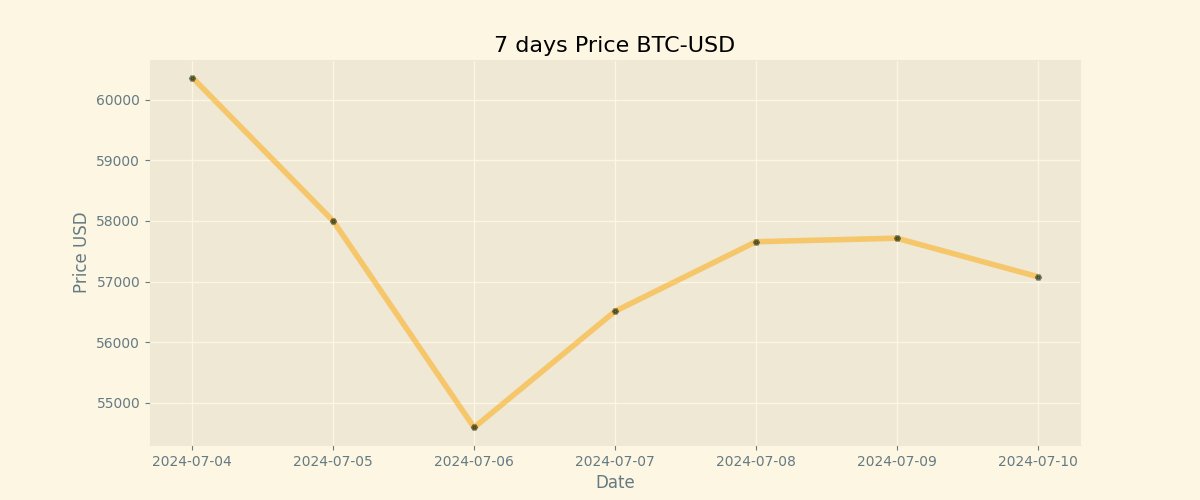
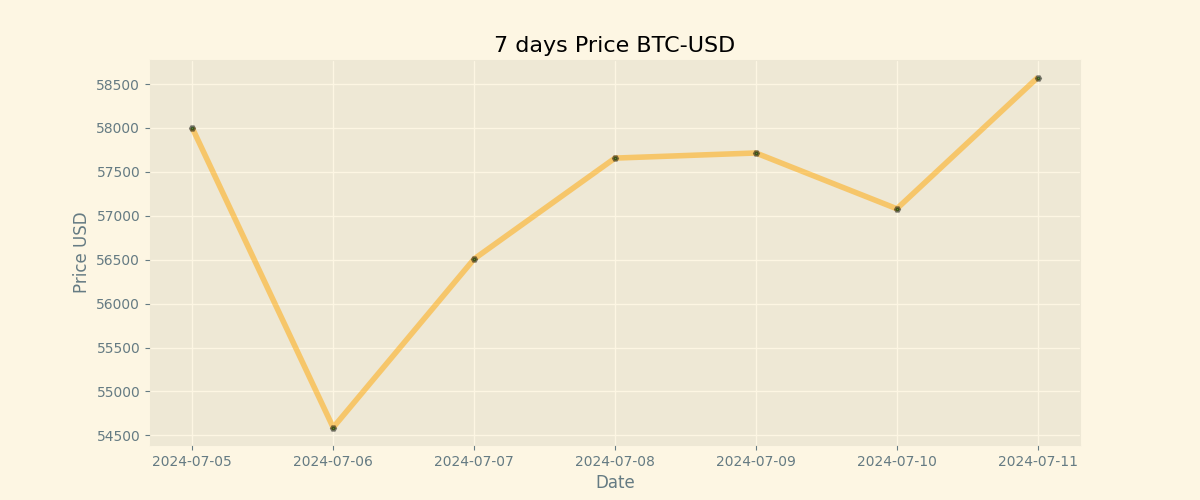
Duty Updates 2024-07-11

diff --git a/README.md b/README.md
@@ -9,8 +9,8 @@
 
 | Currency | Price           |
 | -------- | --------------- |
-| **BTC**  | **$ 57079.9** |
-| **ETH**  | **$ 3087.4** |
+| **BTC**  | **$ 58574.4** |
+| **ETH**  | **$ 3119.14** |
 
 ## BTC chart
 
